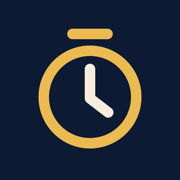
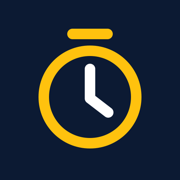
Bâtiments notés à la main, rappel calendrier direct sur iPhone, textes blancs
- Colonie : bâtiments posés ou vendus saisis à la main, rattachés à l'étape
- Rappel : ouverture directe de l'événement sur iPhone, partage en secours
- Textes en blanc, jaune plus vif, titre descendu sous la zone floue d'iOS
- Onglets à largeur du libellé, champ date contenu dans la fenêtre

Changed region(s): [[0.1944, 0.25, 0.8056, 0.8333], [0.4722, 0.3611, 0.6389, 0.6667], [0.3611, 0.1389, 0.6389, 0.2222]]

diff --git a/app/app.js b/app/app.js
@@ -57,6 +57,16 @@ const duree = ms => {
 const rang = (i, n) => (i === 0 ? "D" : i === n - 1 ? "F" : i);
 const moment = i => (i % 2 ? "soir" : "matin");
 
+const ajouts = () => (etat.campagne.ajouts ??= []);
+const libelleAjout = a => {
+  const b = BATIMENTS.find(x => x.cle === a.cle);
+  return `${a.n > 0 ? "Posé" : "Vendu"} : ${Math.abs(a.n)}${NB}${(Math.abs(a.n) > 1 ? b.pluriel : b.nom).toLowerCase()}`;
+};
+const lignesAjouts = filtre => ajouts().map((a, k) => ({ a, k })).filter(({ a }) => filtre(a))
+  .map(({ a, k }) => `<li><span class="grandit">${libelleAjout(a)}<span class="detail">Noté à la main</span></span>
+    <button class="rond retirer" type="button" data-action="retirer-ajout" data-k="${k}" aria-label="Retirer : ${libelleAjout(a)}">−</button></li>`).join("");
+const iOS = /iPad|iPhone|iPod/.test(navigator.userAgent) || (navigator.platform === "MacIntel" && navigator.maxTouchPoints > 1);
+
 const planDe = pid => etat.plans.find(p => p.id === pid);
 const planCampagne = () => etat.campagne && planDe(etat.campagne.planId);
 const indexCourant = () => {
@@ -122,8 +132,12 @@ function vueRecolte() {
   const actions = etape.actions.length
     ? `<ul class="liste">${etape.actions.map(a => `<li><label><input type="checkbox" data-change="cocher" data-id="${a.id}"${c.coches[a.id] ? " checked" : ""}><span>${e(a.texte)}</span></label></li>`).join("")}</ul>`
     : `<p class="vide-etat">Aucune action dans cette étape. Ajoute-en depuis l’onglet Plan.</p>`;
+  const notes = lignesAjouts(a => a.etape === i);
+  const noter = `${notes ? `<div class="verre"><ul class="liste">${notes}</ul></div>` : ""}
+  <button class="btn" type="button" data-action="noter-batiment">Noter un bâtiment posé ou vendu</button>`;
   const btnValider = `<button class="btn${prete ? " principal" : ""}" type="button" data-action="valider">Valider «${NB}${e(etape.nom)}${NB}»</button>`;
   const btnRappel = `<button class="btn principal" type="button" data-action="rappel">Ajouter le rappel au calendrier</button>`;
+  const autreRappel = prete ? "" : `<p class="note"><button class="lien" type="button" data-action="rappel-partage">Le calendrier ne s’ouvre pas ? Partager le fichier du rappel</button></p>`;
   const suivante = plan.etapes[i + 1];
   const ensuite = suivante ? `<h2>Ensuite</h2>
     <div class="verre bloc">
@@ -135,7 +149,8 @@ function vueRecolte() {
   return `<h1>${e(etape.nom)}</h1>${sous}
   <div class="verre bloc">${bloc}<p class="petit">${precedente}</p>${annuler}</div>
   <div class="verre">${actions}</div>
-  ${prete ? btnValider : btnRappel + btnValider}
+  ${noter}
+  ${prete ? btnValider : btnRappel + btnValider + autreRappel}
   ${ensuite}
   ${frise(plan, i)}
   <button class="btn danger" type="button" data-action="clore">Clore la campagne maintenant</button>`;
@@ -229,7 +244,8 @@ function vueColonie() {
     return `<h1>Colonie</h1><p class="sous">Aucune campagne en cours.</p>${calcul}
     <div class="verre vide-etat"><strong>Pas de bâtiments à compter</strong>Ils s’affichent ici dès qu’une campagne est démarrée et que des actions sont cochées.</div>`;
   }
-  const plan = planCampagne(), { batiments, extensions } = etatColonie(plan, etat.campagne.coches);
+  const plan = planCampagne(), { batiments, extensions } = etatColonie(plan, etat.campagne.coches, ajouts());
+  const tousAjouts = lignesAjouts(() => true);
   const familles = FAMILLES.map(f => {
     const lignes = BATIMENTS.filter(b => b.famille === f && batiments[b.cle] > 0)
       .map(b => `<li>${batiments[b.cle] > 1 ? b.pluriel : b.nom}<span class="valeur">${batiments[b.cle]}</span></li>`).join("");
@@ -241,7 +257,11 @@ function vueColonie() {
   ${familles || `<div class="verre vide-etat"><strong>Aucun bâtiment compté</strong>Coche les actions de la mise en place pour voir la colonie se remplir.</div>`}
   <h2>Terrain</h2>
   <div class="verre"><ul class="liste"><li>Extensions achetées<span class="valeur">${extensions}</span></li></ul></div>
-  <p class="note">Les quantités libres («${NB}des piloris${NB}», «${NB}des décorations${NB}») ne sont pas comptées. Le détail de ce qui est compté se voit dans l’onglet Plan, bouton Modifier.</p>`;
+  <h2>Notés à la main</h2>
+  <p class="note" style="margin:0 4px 10px">Pour ce que le plan laisse libre («${NB}des potences${NB}», «${NB}des décorations${NB}») ou ce que tu as fait autrement.</p>
+  ${tousAjouts ? `<div class="verre"><ul class="liste">${tousAjouts}</ul></div>` : ""}
+  <button class="btn" type="button" data-action="noter-batiment">Noter un bâtiment posé ou vendu</button>
+  <p class="note">Le détail de ce que l’app compte dans chaque action se voit dans l’onglet Plan, bouton Modifier.</p>`;
 }
 
 // ---------- Vue : routines ----------
@@ -329,6 +349,12 @@ async function remettreFichier(fichier) {
   setTimeout(() => URL.revokeObjectURL(lien.href), 10000);
 }
 
+function texteRappel() {
+  const c = etat.campagne, i = indexCourant(), etape = planCampagne().etapes[i];
+  return ics(`FOE : ${etape.nom}`, pretA(c.debut, i, c.validations[i - 1]), etape.actions.map(a => a.texte).join("\n"));
+}
+const fichierRappel = () => new File([texteRappel()], "recolte-foe.ics", { type: "text/calendar" });
+
 // ---------- Actions ----------
 
 const ACTIONS = {
@@ -352,10 +378,26 @@ const ACTIONS = {
     etat.campagne.validations[indexCourant() - 1] = null;
   },
   async rappel() {
-    const c = etat.campagne, i = indexCourant(), etape = planCampagne().etapes[i];
-    const texte = ics(`FOE : ${etape.nom}`, pretA(c.debut, i, c.validations[i - 1]), etape.actions.map(a => a.texte).join("\n"));
-    await remettreFichier(new File([texte], "recolte-foe.ics", { type: "text/calendar" }));
+    // Sur iPhone, ouvrir directement l'événement : la feuille de partage ne propose pas le calendrier.
+    if (iOS) location.href = "data:text/calendar;charset=utf-8," + encodeURIComponent(texteRappel());
+    else await remettreFichier(fichierRappel());
   },
+  async "rappel-partage"() { await remettreFichier(fichierRappel()); },
+  async "noter-batiment"() {
+    const n = planCampagne().etapes.length, i = Math.min(indexCourant(), n - 1);
+    const r = await demander({
+      titre: "Noter un bâtiment", ok: "Noter",
+      texte: `Compté dans la colonie à l’étape «${NB}${planCampagne().etapes[i].nom}${NB}».`,
+      champs: [
+        { nom: "sens", label: "Ce que tu as fait", type: "select", valeur: "1", options: [["1", "Posé"], ["-1", "Vendu"]] },
+        { nom: "cle", label: "Bâtiment", type: "select", valeur: "pilori", options: BATIMENTS.map(b => [b.cle, b.nom]).sort((a, b) => a[1].localeCompare(b[1], "fr")) },
+        { nom: "quantite", label: "Combien", type: "number", valeur: "1", requis: true },
+      ],
+    });
+    const quantite = Math.floor(Number(r?.quantite));
+    if (r && quantite > 0) ajouts().push({ etape: i, cle: r.cle, n: Number(r.sens) * quantite });
+  },
+  "retirer-ajout"(d) { ajouts().splice(d.k, 1); },
   async clore() {
     const c = etat.campagne, plan = planCampagne(), n = plan.etapes.length;
     const r = await demander({

diff --git a/app/style.css b/app/style.css
@@ -1,9 +1,9 @@
 :root{
   --fond:#0c1a33;
-  --texte:#f6eedc;
-  --texte-2:#d2c8b2;
-  --or:#ebbb52;
-  --sur-or:#1b1404;
+  --texte:#ffffff;
+  --texte-2:#e3e8f2;
+  --or:#ffc20e;
+  --sur-or:#171100;
   --vert:#7fd69a;
   --rouge:#ff9a88;
   --verre:rgba(255,255,255,.07);
@@ -15,7 +15,7 @@
 *{box-sizing:border-box}
 html{-webkit-text-size-adjust:100%;background:var(--fond)}
 body{margin:0;background:var(--fond);color:var(--texte);font:400 17px/1.5 var(--police);min-height:100vh;overflow-x:hidden;-webkit-tap-highlight-color:transparent}
-.app{max-width:460px;margin:0 auto;padding:max(20px,env(safe-area-inset-top)) 16px calc(120px + env(safe-area-inset-bottom))}
+.app{max-width:460px;margin:0 auto;padding:calc(env(safe-area-inset-top) + 36px) 16px calc(120px + env(safe-area-inset-bottom))}
 h1{font-size:34px;line-height:1.1;font-weight:700;margin:12px 0 6px;letter-spacing:-.01em;text-wrap:balance;overflow-wrap:break-word}
 h2{font-size:20px;line-height:1.25;font-weight:650;margin:28px 4px 10px}
 h3{font-size:17px;line-height:1.3;font-weight:600;margin:0}
@@ -82,6 +82,9 @@ button{cursor:pointer}
 .champ > span{display:block;font-size:15px;color:var(--texte-2);margin-bottom:6px}
 .champ input,.champ select,.champ textarea,select.choix{width:100%;min-height:48px;padding:10px 14px;border-radius:14px;border:1px solid var(--filet);background:rgba(255,255,255,.08);font-size:17px}
 .champ textarea{min-height:96px;resize:vertical}
+.champ input,.champ select{display:block;min-width:0;max-width:100%;-webkit-appearance:none;appearance:none}
+.champ input::-webkit-date-and-time-value{text-align:left}
+.champ select{background-image:linear-gradient(45deg,transparent 50%,var(--texte-2) 50%),linear-gradient(135deg,var(--texte-2) 50%,transparent 50%);background-position:calc(100% - 21px) 21px,calc(100% - 15px) 21px;background-size:6px 6px;background-repeat:no-repeat;padding-right:36px}
 select.choix{width:auto;max-width:100%;border-radius:999px;min-height:40px;padding:6px 14px;font-size:15px;font-weight:600}
 select option{color:#111;background:#fff}
 .deux{display:grid;grid-template-columns:1fr 1fr;gap:12px}
@@ -116,10 +119,10 @@ dialog h2{margin:0 0 4px}
 dialog .btn.principal{margin-top:20px}
 
 /* Barre d'onglets */
-.onglets{position:fixed;z-index:5;left:50%;transform:translateX(-50%);bottom:max(10px,env(safe-area-inset-bottom));width:min(444px,calc(100% - 16px));display:grid;grid-template-columns:repeat(5,1fr);padding:6px;border-radius:999px;background:var(--verre-fort);-webkit-backdrop-filter:blur(30px) saturate(180%);backdrop-filter:blur(30px) saturate(180%);border:1px solid var(--filet);box-shadow:inset 0 1px 0 var(--reflet),0 10px 30px rgba(0,0,0,.35)}
-.onglets button{display:flex;flex-direction:column;align-items:center;justify-content:center;gap:2px;min-height:52px;padding:4px 0;border:0;border-radius:999px;background:none;font-size:13px;font-weight:500;color:var(--texte-2)}
+.onglets{position:fixed;z-index:5;left:50%;transform:translateX(-50%);bottom:max(10px,env(safe-area-inset-bottom));width:min(444px,calc(100% - 16px));display:flex;gap:2px;padding:6px;border-radius:999px;background:var(--verre-fort);-webkit-backdrop-filter:blur(30px) saturate(180%);backdrop-filter:blur(30px) saturate(180%);border:1px solid var(--filet);box-shadow:inset 0 1px 0 var(--reflet),0 10px 30px rgba(0,0,0,.35)}
+.onglets button{flex:1 1 auto;display:flex;flex-direction:column;align-items:center;justify-content:center;gap:2px;min-height:52px;padding:4px 9px;white-space:nowrap;border:0;border-radius:999px;background:none;font-size:13px;font-weight:500;color:var(--texte-2)}
 .onglets svg{width:24px;height:24px;fill:none;stroke:currentColor;stroke-width:1.8;stroke-linecap:round;stroke-linejoin:round}
 .onglets button[aria-current=page]{background:rgba(255,255,255,.14);color:var(--or);font-weight:600}
 
 @media (prefers-reduced-motion:reduce){*{transition:none!important}.btn:active{transform:none}}
-@media (max-width:359px){.app{padding-left:10px;padding-right:10px}.frise{gap:2px}.onglets button{letter-spacing:-.02em}.deux{grid-template-columns:1fr}}
+@media (max-width:359px){.app{padding-left:10px;padding-right:10px}.frise{gap:2px}.onglets button{letter-spacing:-.02em;padding:4px 3px}.deux{grid-template-columns:1fr}}

diff --git a/app/logique.js b/app/logique.js
@@ -25,6 +25,7 @@ export const BATIMENTS = [
   { cle: "medecin", nom: "Médecin", pluriel: "Médecins", famille: "Culture", motif: "m[ée]decins?" },
   { cle: "pilori", nom: "Pilori", pluriel: "Piloris", famille: "Culture", motif: "piloris?" },
   { cle: "potence", nom: "Potence", pluriel: "Potences", famille: "Culture", motif: "potences?" },
+  { cle: "decoration", nom: "Décoration", pluriel: "Décorations", famille: "Culture", motif: "d[ée]corations?|d[ée]cos?" },
   { cle: "caserne", nom: "Caserne", pluriel: "Casernes", famille: "Militaire", motif: "casernes?" },
   { cle: "corderie", nom: "Corderie", pluriel: "Corderies", famille: "Biens", motif: "corderies?" },
   { cle: "apiculture", nom: "Apiculture", pluriel: "Apicultures", famille: "Biens", motif: "apicultures?" },
@@ -75,11 +76,14 @@ export function resumerEffets(effets) {
   return morceaux.join(", ");
 }
 
-/** État de la colonie d'après les actions cochées, dans l'ordre du plan. */
-export function etatColonie(plan, coches) {
+/**
+ * État de la colonie d'après les actions cochées, dans l'ordre du plan.
+ * `ajouts` : bâtiments notés à la main, [{ etape, cle, n }], appliqués à la fin de leur étape.
+ */
+export function etatColonie(plan, coches, ajouts = []) {
   const batiments = {};
   let extensions = 0;
-  for (const etape of plan.etapes) {
+  for (const [i, etape] of plan.etapes.entries()) {
     for (const action of etape.actions) {
       if (!coches[action.id]) continue;
       const effets = lireAction(action.texte);
@@ -87,6 +91,7 @@ export function etatColonie(plan, coches) {
       for (const [cle, n] of Object.entries(effets.deltas)) batiments[cle] = Math.max(0, (batiments[cle] ?? 0) + n);
       extensions += effets.extensions;
     }
+    for (const a of ajouts) if (a.etape === i) batiments[a.cle] = Math.max(0, (batiments[a.cle] ?? 0) + a.n);
   }
   return { batiments, extensions };
 }

diff --git a/app/tests/logique.test.js b/app/tests/logique.test.js
@@ -61,6 +61,20 @@ test("plan de base complet : tout vendu à la fin, jamais de quantité négative
   assert.equal(plan.etapes.length, 20);
 });
 
+test("bâtiments notés à la main : comptés à leur étape, effacés par « tout vendre »", () => {
+  const plan = planDeBase();
+  const coches = {};
+  plan.etapes.slice(0, 4).forEach(e => e.actions.forEach(a => coches[a.id] = true));
+  const ajouts = [{ etape: 3, cle: "pilori", n: 1 }, { etape: 3, cle: "decoration", n: 2 }, { etape: 2, cle: "tannerie", n: -1 }];
+  const { batiments } = etatColonie(plan, coches, ajouts);
+  assert.equal(batiments.pilori, 1);
+  assert.equal(batiments.decoration, 2);
+  assert.equal(batiments.tannerie, 3);
+  plan.etapes.forEach(e => e.actions.forEach(a => coches[a.id] = true));
+  assert.equal(etatColonie(plan, coches, ajouts).batiments.pilori, 0);
+  assert.deepEqual(lireAction("Poser 2 décorations").deltas, { decoration: 2 });
+});
+
 test("créneaux : matin 8 h, soir 18 h, deux par jour", () => {
   assert.equal(creneau("2026-11-12", 0).toString(), new Date(2026, 10, 12, 8).toString());
   assert.equal(creneau("2026-11-12", 3).toString(), new Date(2026, 10, 13, 18).toString());

diff --git a/docs/design/DESIGN.md b/docs/design/DESIGN.md
@@ -7,10 +7,10 @@ bleu marine (les disques de couleur de la première maquette ont été refusés)
 ```yaml
 couleurs:
   fond: "#0c1a33"          # marine uni, aucun motif ni dégradé
-  texte: "#f6eedc"         # parchemin
-  texte-2: "#d2c8b2"       # texte secondaire
-  or: "#ebbb52"            # action principale et étape en cours, une seule par vue
-  sur-or: "#1b1404"        # texte sur l'or
+  texte: "#ffffff"         # blanc pur (demande du 13/11)
+  texte-2: "#e3e8f2"       # texte secondaire
+  or: "#ffc20e"            # action principale et étape en cours, une seule par vue
+  sur-or: "#171100"        # texte sur l'or
   vert: "#7fd69a"          # fait, palier atteint
   rouge: "#ff9a88"         # suppression uniquement
 verre:
@@ -27,4 +27,4 @@ ombre: uniquement sous la barre d'onglets flottante et la fenêtre de saisie
 ```
 
 Élément propre à l'app : la frise de campagne (11 jours, ligne du matin et ligne du soir).
-Contrastes mesurés avec `contraste.py` sur verre : texte 9,3:1 au moins, secondaire 5,8:1, or 5,4:1, rouge 4,7:1.
+Contrastes mesurés avec `contraste.py` sur verre : texte 14,4:1, secondaire 11,7:1, or 8,9:1, rouge 7:1.
